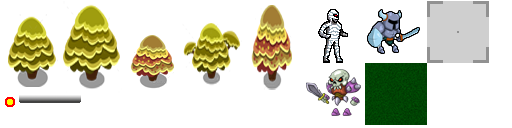
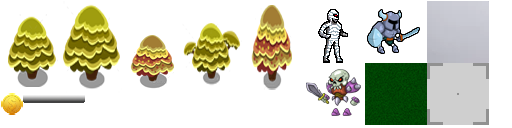
Lesson 6 homework

diff --git a/core/src/ru/geekbrains/dungeon/game/Unit.java b/core/src/ru/geekbrains/dungeon/game/Unit.java
@@ -25,8 +25,9 @@ public abstract class Unit implements Poolable {
     float movementTime;
     float movementMaxTime;
     int targetX, targetY;
-    int turns, maxTurns;
     float innerTimer;
+    int steps;
+    int attacks;
     StringBuilder stringHelper;
 
     public Unit(GameController gc, int cellX, int cellY, int hpMax) {
@@ -39,12 +40,13 @@ public abstract class Unit implements Poolable {
         this.targetY = cellY;
         this.damage = 2;
         this.defence = 0;
-        this.maxTurns = GameController.TURNS_COUNT;
         this.movementMaxTime = 0.2f;
         this.attackRange = 2;
         this.innerTimer = MathUtils.random(1000.0f);
         this.stringHelper = new StringBuilder();
         this.gold = MathUtils.random(1, 5);
+        this.steps=MathUtils.random(1, GameController.TURNS_COUNT);
+        this.attacks=MathUtils.random(1, GameController.TURNS_COUNT);
     }
 
     public void addGold(int amount) {
@@ -59,7 +61,8 @@ public abstract class Unit implements Poolable {
     }
 
     public void startTurn() {
-        turns = maxTurns;
+        this.steps=MathUtils.random(1, 4);
+        this.attacks=MathUtils.random(1, 4);
     }
 
     public void startRound() {
@@ -74,14 +77,16 @@ public abstract class Unit implements Poolable {
     public boolean takeDamage(Unit source, int amount) {
         hp -= amount;
         if (hp <= 0) {
+            gc.getMoneyController().activate(gold,cellX,cellY);
             gc.getUnitController().removeUnitAfterDeath(this);
-            source.addGold(this.gold);
+
+            //source.addGold(this.gold);
         }
         return hp <= 0;
     }
 
     public boolean canIMakeAction() {
-        return gc.getUnitController().isItMyTurn(this) && turns > 0 && isStayStill();
+        return gc.getUnitController().isItMyTurn(this) && (steps > 0||attacks>0) && isStayStill();
     }
 
     public boolean isStayStill() {
@@ -99,14 +104,14 @@ public abstract class Unit implements Poolable {
     }
 
     public boolean canIAttackThisTarget(Unit target) {
-        return cellX - target.getCellX() == 0 && Math.abs(cellY - target.getCellY()) <= attackRange ||
-                cellY - target.getCellY() == 0 && Math.abs(cellX - target.getCellX()) <= attackRange;
+        return (cellX - target.getCellX() == 0 && Math.abs(cellY - target.getCellY()) <= attackRange ||
+                cellY - target.getCellY() == 0 && Math.abs(cellX - target.getCellX()) <= attackRange)&&attacks!=0;
     }
 
     public void attack(Unit target) {
         target.takeDamage(this, BattleCalc.attack(this, target));
         this.takeDamage(target, BattleCalc.checkCounterAttack(this, target));
-        turns--;
+        attacks--;
     }
 
     public void update(float dt) {
@@ -117,7 +122,7 @@ public abstract class Unit implements Poolable {
                 movementTime = 0;
                 cellX = targetX;
                 cellY = targetY;
-                turns--;
+                steps--;
             }
         }
     }
@@ -144,7 +149,7 @@ public abstract class Unit implements Poolable {
         batch.draw(textureHp, barX + 2, barY + 52, (float) hp / hpMax * 56, 8);
         batch.setColor(1.0f, 1.0f, 1.0f, hpAlpha);
         stringHelper.setLength(0);
-        stringHelper.append(hp);
+        stringHelper.append("S"+steps).append(" A"+attacks).append(" Hp"+hp);
         font18.setColor(1.0f, 1.0f, 1.0f, hpAlpha);
         font18.draw(batch, stringHelper, barX, barY + 64, 60, 1, false);
 

diff --git a/core/src/ru/geekbrains/dungeon/DungeonGame.java b/core/src/ru/geekbrains/dungeon/DungeonGame.java
@@ -1,27 +1,26 @@
 package ru.geekbrains.dungeon;
 
-import com.badlogic.gdx.ApplicationAdapter;
+
 import com.badlogic.gdx.Game;
 import com.badlogic.gdx.Gdx;
 import com.badlogic.gdx.graphics.GL20;
 import com.badlogic.gdx.graphics.g2d.SpriteBatch;
-import com.badlogic.gdx.graphics.g2d.TextureRegion;
-import ru.geekbrains.dungeon.game.GameController;
-import ru.geekbrains.dungeon.game.GameMap;
-import ru.geekbrains.dungeon.helpers.Assets;
 import ru.geekbrains.dungeon.screens.ScreenManager;
 
 public class DungeonGame extends Game {
     private SpriteBatch batch;
 
     // Домашнее задание:
-    // 1. Разобраться с кодом
-    // 2. Каждому персонажу дается количество шагов и атак, в начале хода они генерятся в пределах 1-4
-    // 3. На соответствующие действия персонаж тратит эти очки, если сделать ничего не может/не хочет, то
+    // +1. Разобраться с кодом
+    // +2. Каждому персонажу дается количество шагов и атак, в начале хода они генерятся в пределах 1-4
+    // +-немного не понял как сделать не хочет.3. На соответствующие действия персонаж тратит эти очки, если сделать ничего не может/не хочет, то
     // счетчик его ходов обнуляется (действия шаги/атака заменит turns)
-    // 4. Над головой текущего игрока можно отобразить количество каждого действия S2, A3 (step - 2, attack - 3)
-    // 5. * Монеты высыпаются на пол, и чтобы их забрать, надо на них наступить
-    // 6. * Добавить туман войны
+    // +4. Над головой текущего игрока можно отобразить количество каждого действия S2, A3 (step - 2, attack - 3)
+    // Создал новый класс Money и MoneyController, при убийстве монеты появляются в клетке умершего в рандомных координатах.
+    //Если кто-то наступил в ячейку ,где находятся монеты, то монеты передаются наступившему.
+    // +5. * Монеты высыпаются на пол, и чтобы их забрать, надо на них наступить.
+    // В GameMap создал массив где проверяю активирована ли клетка героем, если нет то туман. Поле зрения 5 клеток.
+    // +6. * Добавить туман войны
 
     // Идея механики:
     // 1. На ваш ход выбатает случайный набор действий (2 шага, 4 атаки, 1 спец действие)

diff --git a/core/src/ru/geekbrains/dungeon/game/GameMap.java b/core/src/ru/geekbrains/dungeon/game/GameMap.java
@@ -4,10 +4,11 @@ import com.badlogic.gdx.graphics.g2d.SpriteBatch;
 import com.badlogic.gdx.graphics.g2d.TextureRegion;
 import com.badlogic.gdx.math.MathUtils;
 import ru.geekbrains.dungeon.helpers.Assets;
+import ru.geekbrains.dungeon.helpers.Utils;
 
 public class GameMap {
     public enum CellType {
-        GRASS, WATER, TREE
+        GRASS, WATER, TREE, FOGGY,
     }
 
     private class Cell {
@@ -43,6 +44,8 @@ public class GameMap {
     private Cell[][] data;
     private TextureRegion grassTexture;
     private TextureRegion[] treesTextures;
+    private TextureRegion foggyTexture;
+    private boolean[][] foggyCell;
 
     public GameMap() {
         this.data = new Cell[CELLS_X][CELLS_Y];
@@ -58,7 +61,10 @@ public class GameMap {
         }
 
         this.grassTexture = Assets.getInstance().getAtlas().findRegion("grass");
+        this.foggyTexture=Assets.getInstance().getAtlas().findRegion("foggy");
         this.treesTextures = Assets.getInstance().getAtlas().findRegion("trees").split(60, 90)[0];
+        this.foggyCell=new boolean[CELLS_X][CELLS_Y];
+
     }
 
     public boolean isCellPassable(int cx, int cy) {
@@ -81,4 +87,15 @@ public class GameMap {
             }
         }
     }
+    public void renderFog(SpriteBatch batch, Hero hero){
+        for (int i = 0; i < CELLS_X; i++) {
+            for (int j = CELLS_Y - 1; j >= 0; j--) {
+                if(Utils.getCellsIntDistance(i, j, hero.getCellX(), hero.getCellY()) < 5) foggyCell[i][j]=true;
+                if(foggyCell[i][j]==false) batch.draw(foggyTexture,i * CELL_SIZE, j * CELL_SIZE);
+            }
+        }
+
+    }
+
+
 }

diff --git a/core/src/ru/geekbrains/dungeon/game/MoneyController.java b/core/src/ru/geekbrains/dungeon/game/MoneyController.java
@@ -1,0 +1,49 @@
+package ru.geekbrains.dungeon.game;
+
+import com.badlogic.gdx.graphics.g2d.SpriteBatch;
+import com.badlogic.gdx.graphics.g2d.TextureRegion;
+import ru.geekbrains.dungeon.helpers.Assets;
+import ru.geekbrains.dungeon.helpers.ObjectPool;
+import ru.geekbrains.dungeon.helpers.Utils;
+
+public class MoneyController extends ObjectPool<Money> {
+
+    private GameController gc;
+
+
+    public MoneyController(GameController gc) {
+        this.gc = gc;
+    }
+
+    @Override
+    protected Money newObject() {
+        return new Money();
+    }
+
+    public void activate(int money, int x, int y) {
+        for (int i = 0; i < money; i++) {
+            getActiveElement().activate(x, y);
+        }
+    }
+
+    public void update(float dt) {
+        for (int units = 0; units < gc.getUnitController().getAllUnits().size(); units++) {
+            Unit unit = gc.getUnitController().getAllUnits().get(units);
+            for (int i = 0; i < getActiveList().size(); i++) {
+                Money money = getActiveList().get(i);
+                if (Utils.getCellsFloatDistance(unit.cellX, unit.cellY, money.getX(), money.getY()) < 1) {
+                    money.deactivate();
+                    unit.gold++;
+                }
+            }
+            checkPool();
+        }
+    }
+
+    public void render(SpriteBatch batch) {
+        for (int i = 0; i < getActiveList().size(); i++) {
+            Money money = getActiveList().get(i);
+            money.render(batch);
+        }
+    }
+}

diff --git a/core/src/ru/geekbrains/dungeon/game/Money.java b/core/src/ru/geekbrains/dungeon/game/Money.java
@@ -1,0 +1,49 @@
+package ru.geekbrains.dungeon.game;
+
+import com.badlogic.gdx.graphics.g2d.SpriteBatch;
+import com.badlogic.gdx.graphics.g2d.TextureRegion;
+import com.badlogic.gdx.math.MathUtils;
+import lombok.Data;
+import ru.geekbrains.dungeon.helpers.Assets;
+import ru.geekbrains.dungeon.helpers.Poolable;
+
+@Data
+public class Money implements Poolable {
+    private TextureRegion texture;
+    private int x;
+    private int y;
+    private int pos;
+    private boolean active;
+
+    @Override
+    public boolean isActive() {
+        return active;
+    }
+
+    public Money() {
+        this.x = 0;
+        this.y = 0;
+        this.texture = Assets.getInstance().getAtlas().findRegion("pngwave");
+        this.active = false;
+        this.pos = MathUtils.random(-GameMap.CELL_SIZE/2+20, GameMap.CELL_SIZE/2);
+    }
+
+    public void deactivate() {
+        active = false;
+    }
+
+    public void activate(int x, int y) {
+        active = true;
+        this.x = x;
+        this.y = y;
+
+    }
+
+    public void update(float dt) {
+
+    }
+
+    public void render(SpriteBatch batch) {
+        batch.draw(texture, x * GameMap.CELL_SIZE + pos, y * GameMap.CELL_SIZE + 10);
+    }
+}

diff --git a/core/src/ru/geekbrains/dungeon/game/GameController.java b/core/src/ru/geekbrains/dungeon/game/GameController.java
@@ -10,12 +10,15 @@ import ru.geekbrains.dungeon.screens.ScreenManager;
 @Data
 public class GameController {
     public static final int INITIAL_MONSTERS_COUNT = 3;
-    public static final int TURNS_COUNT = 5;
+    public static final int TURNS_COUNT = 4;
+    int steps;
+    int attacks;
 
     private SpriteBatch batch;
     private ProjectileController projectileController;
     private UnitController unitController;
     private GameMap gameMap;
+    private MoneyController moneyController;
 
     private Vector2 mouse;
     private Vector2 pressedMouse;
@@ -31,6 +34,7 @@ public class GameController {
         this.unitController = new UnitController(this);
         this.projectileController = new ProjectileController();
         this.unitController.init(INITIAL_MONSTERS_COUNT);
+        this.moneyController=new MoneyController(this);
         this.round = 1;
     }
 
@@ -50,6 +54,7 @@ public class GameController {
         checkMouse();
         projectileController.update(dt);
         unitController.update(dt);
+        moneyController.update(dt);
     }
 
     public void checkMouse() {

diff --git a/core/src/ru/geekbrains/dungeon/game/Hero.java b/core/src/ru/geekbrains/dungeon/game/Hero.java
@@ -22,6 +22,8 @@ public class Hero extends Unit {
 
     public void update(float dt) {
         super.update(dt);
+        if(steps==0)
+            canAttackMonster();
         if (Gdx.input.justTouched() && canIMakeAction()) {
             Monster m = gc.getUnitController().getMonsterController().getMonsterInCell(gc.getCursorX(), gc.getCursorY());
             if (m != null && canIAttackThisTarget(m)) {
@@ -30,6 +32,14 @@ public class Hero extends Unit {
                 goTo(gc.getCursorX(), gc.getCursorY());
             }
         }
+    }
+
+    private void canAttackMonster() {
+        for (int i=0; i<gc.getUnitController().getMonsterController().getActiveList().size();i++)
+        {
+            if(canIAttackThisTarget(gc.getUnitController().getMonsterController().getActiveList().get(i))) return;
+        }
+        attacks=0;
     }
 
     public void renderHUD(SpriteBatch batch, BitmapFont font, int x, int y) {

diff --git a/core/src/ru/geekbrains/dungeon/game/Monster.java b/core/src/ru/geekbrains/dungeon/game/Monster.java
@@ -29,6 +29,9 @@ public class Monster extends Unit {
 
     public void update(float dt) {
         super.update(dt);
+        if(steps==0)
+            if(!canIAttackThisTarget(target))
+                attacks=0;
         if (canIMakeAction()) {
             if (isStayStill()) {
                 aiBrainsImplseTime += dt;
@@ -46,7 +49,8 @@ public class Monster extends Unit {
             return;
         }
         if (amIBlocked()) {
-            turns = 0;
+            steps = 0;
+            attacks=0;
             return;
         }
         if (Utils.getCellsIntDistance(cellX, cellY, target.getCellX(), target.getCellY()) < 5) {

diff --git a/core/src/ru/geekbrains/dungeon/game/WorldRenderer.java b/core/src/ru/geekbrains/dungeon/game/WorldRenderer.java
@@ -32,6 +32,8 @@ public class WorldRenderer {
         gc.getGameMap().render(batch);
         gc.getUnitController().render(batch, font18);
         gc.getProjectileController().render(batch);
+        gc.getMoneyController().render(batch);
+        gc.getGameMap().renderFog(batch, gc.getUnitController().getHero());
         batch.setColor(1, 1, 1, 0.5f);
         batch.draw(cursorTexture, gc.getCursorX() * GameMap.CELL_SIZE, gc.getCursorY() * GameMap.CELL_SIZE);
         batch.setColor(1, 1, 1, 1);

diff --git a/core/src/ru/geekbrains/dungeon/game/UnitController.java b/core/src/ru/geekbrains/dungeon/game/UnitController.java
@@ -73,10 +73,11 @@ public class UnitController {
         hero.update(dt);
         monsterController.update(dt);
 
-        if (!currentUnit.isActive() || currentUnit.getTurns() == 0) {
+        if (!currentUnit.isActive() || (currentUnit.getSteps() == 0 && currentUnit.getAttacks()==0)) {
             nextTurn();
         }
     }
+
 
     public void removeUnitAfterDeath(Unit unit) {
         int unitIndex = allUnits.indexOf(unit);
